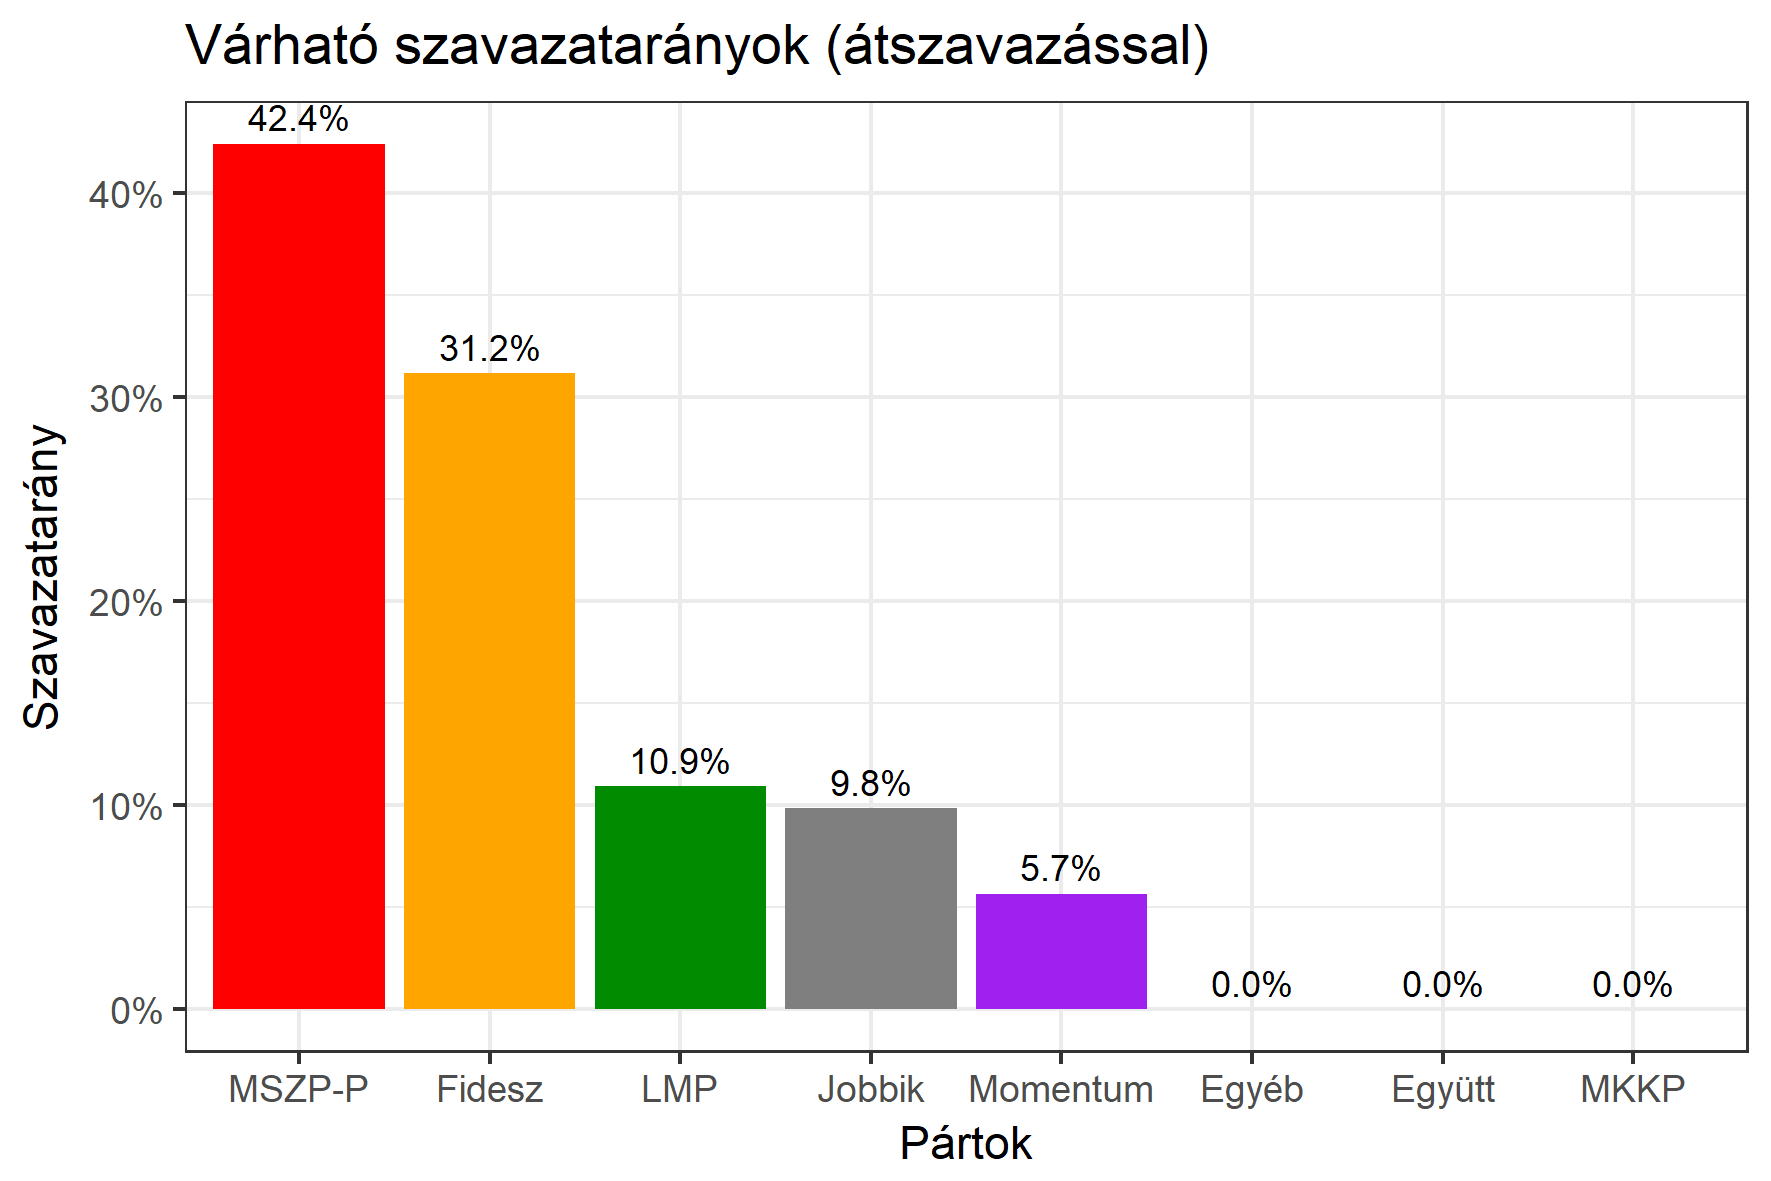
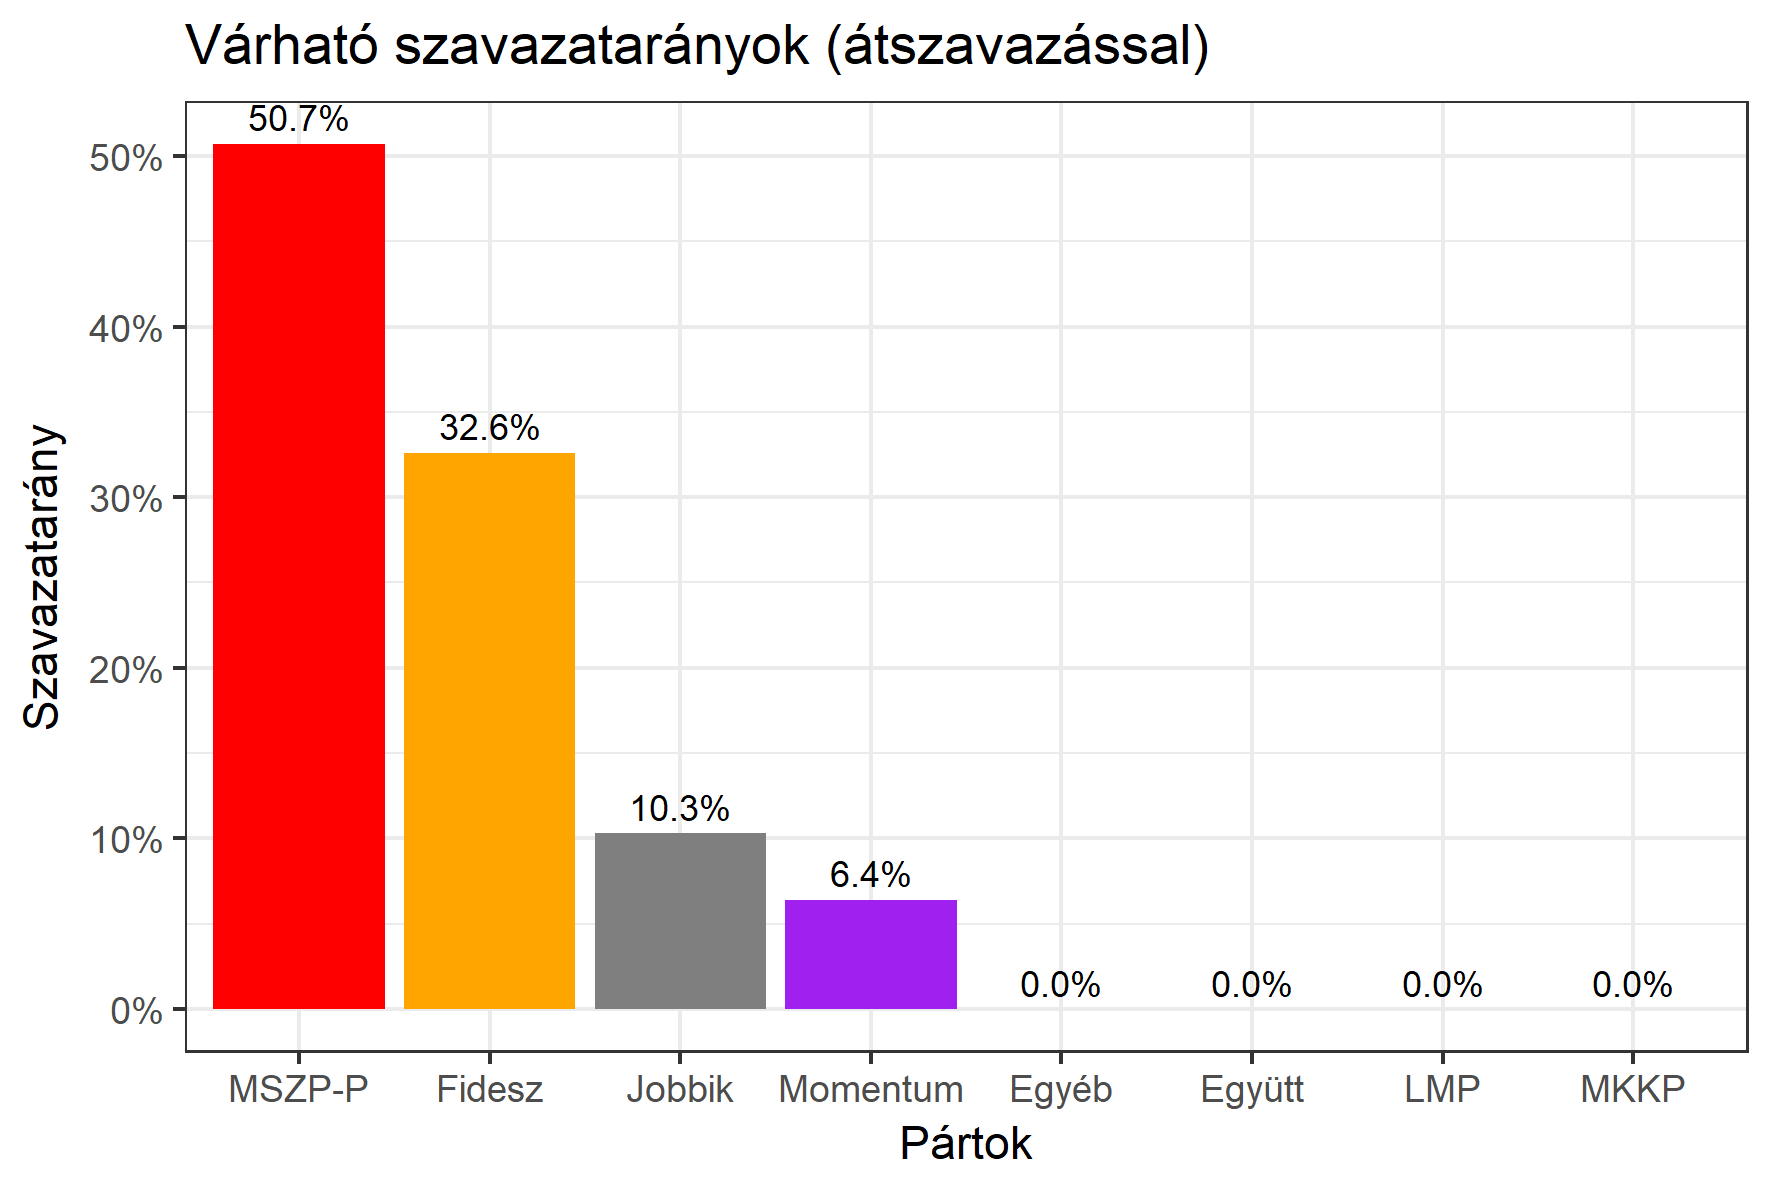
visszalepes UCCSO

diff --git a/baz2.md b/baz2.md
@@ -27,21 +27,15 @@ permalink: /baz2
               <tbody>
              <tr>
                   <td>Hubay György - Fidesz-KDNP <img src="images/fideszkdnp_logo.png" style="width:55px;height:30px;"></td>
-				   <td id="id_fidesz">33.2% &emsp; <span id="id_fidesz2">(34.4%)</span></td>
+				   <td id="id_fidesz">33.2% &emsp; <span id="id_fidesz2">(34.7%)</span></td>
 			</tr>
-			<tr><td>Pakusza Zoltán - Jobbik <img src="images/jobbik_logo.png" style="width:23px;height:30px;"></td> <td id="id_jobbik">27.7% &emsp; <span id="id_jobbik2">(28.1%)</span></td></tr>
+			<tr><td>Pakusza Zoltán - Jobbik <img src="images/jobbik_logo.png" style="width:23px;height:30px;"></td> <td id="id_jobbik">27.7% &emsp; <span id="id_jobbik2">(28.4%)</span></td></tr>
 <tr>
                   <td>dr. Varga László - MSZP-Párbeszéd <img src="images/mszpparbeszed_logo.png" style="width:60px;height:30px;"></td>
-				   <td id="id_baloldal">28.5% &emsp; <span id="id_baloldal2">(33.4%)</span></td>
-			</tr>
-			<tr>
-                  <td><strong>VISSZALÉPETT AZ MSZP-PÁRBESZÉD JAVÁRA</strong> - LMP <img src="images/lmp_logo.png" style="width:52px;height:30px;"></td>
-				   <td id="id_lmp">6.2% &emsp; <span id="id_lmp2">(4.2%)</span></td>
-			</tr>
-			
-                
+				   <td id="id_baloldal">28.5% &emsp; <span id="id_baloldal2">(36.9%)</span></td>
+			</tr>    
               </tbody>
-            </table><h5>Várható győztes: <span id="gyoztes">Fidesz</span><span id="esely"></span><span></span></h5>
+            </table><h5>Várható győztes: <span id="gyoztes">Varga László (MSZP-Párbeszéd)</span><span id="esely"></span><span></span></h5>
 			
 			
 <br/><p><strong>Fontos:</strong> A becslések csak az egyéni jelöltre adott szavazatok arányát mutatják, nem a listás szavazatokét. A becslés jelentős eltérést mutathat a kisebb pártok esetében és olyan kerületekben, ahol nincs egyértelmű esélyes jelölt.</p>

diff --git a/bp10.md b/bp10.md
@@ -27,20 +27,16 @@ permalink: /bp10
               <tbody>
              <tr>
                   <td>Menczer Erzsébet - Fidesz-KDNP <img src="images/fideszkdnp_logo.png" style="width:55px;height:30px;"></td>
-				   <td id="id_fidesz">30.1% &emsp; <span id="id_fidesz2">(31.2%)</span></td>
+				   <td id="id_fidesz">30.1% &emsp; <span id="id_fidesz2">(32.6%)</span></td>
 			</tr>
-			<tr><td>Zsiga-Kárpát Dániel - Jobbik <img src="images/jobbik_logo.png" style="width:23px;height:30px;"></td> <td id="id_jobbik">12.7% &emsp; <span id="id_jobbik2">(9.8%)</span></td></tr>
+			<tr><td>Zsiga-Kárpát Dániel - Jobbik <img src="images/jobbik_logo.png" style="width:23px;height:30px;"></td> <td id="id_jobbik">12.7% &emsp; <span id="id_jobbik2">(10.3%)</span></td></tr>
 <tr>
                   <td>Szabó Tímea - MSZP-Párbeszéd <img src="images/mszpparbeszed_logo.png" style="width:60px;height:30px;"></td>
-				   <td id="id_baloldal">27.9% &emsp; <span id="id_baloldal2">(42.4%)</span></td>
-			</tr>
-			<tr>
-                  <td><strong>VISSZALÉPETT AZ MSZP-PÁRBESZÉD JAVÁRA</strong> - LMP <img src="images/lmp_logo.png" style="width:52px;height:30px;"></td>
-				   <td id="id_lmp">16.4% &emsp; <span id="id_lmp2">(10.9%)</span></td>
+				   <td id="id_baloldal">27.9% &emsp; <span id="id_baloldal2">(50.7%)</span></td>
 			</tr>
 			<tr>
 				  <td>Donáth-Anna Júlia - Momentum <img src="images/momentum_logo.png" style="width:44px;height:30px;"></td>
-				   <td id="id_momentum">8.2% &emsp; <span id="id_momentum2">(5.7%)</span></td>
+				   <td id="id_momentum">8.2% &emsp; <span id="id_momentum2">(6.4%)</span></td>
 			</tr>
                
               </tbody>

diff --git a/to1.md b/to1.md
@@ -27,16 +27,12 @@ permalink: /to1
               <tbody>
              <tr>
                   <td>Horváth István - Fidesz-KDNP <img src="images/fideszkdnp_logo.png" style="width:55px;height:30px;"></td>
-				   <td id="id_fidesz">34.7% &emsp; <span id="id_fidesz2">(37.8%)</span></td>
+				   <td id="id_fidesz">34.7% &emsp; <span id="id_fidesz2">(39.6%)</span></td>
 			</tr>
-			<tr><td>Szabó Balázs György - Jobbik <img src="images/jobbik_logo.png" style="width:23px;height:30px;"></td> <td id="id_jobbik">18.6% &emsp; <span id="id_jobbik2">(19.7%)</span></td></tr>
-<tr>
-                  <td><strong>VISSZALÉPETT AZ LMP JAVÁRA</strong> - MSZP-Párbeszéd <img src="images/mszpparbeszed_logo.png" style="width:60px;height:30px;"></td>
-				   <td id="id_baloldal">16.1% &emsp; <span id="id_baloldal2">(11.0%)</span></td>
-			</tr>
+			<tr><td>Szabó Balázs György - Jobbik <img src="images/jobbik_logo.png" style="width:23px;height:30px;"></td> <td id="id_jobbik">18.6% &emsp; <span id="id_jobbik2">(20.6%)</span></td></tr>
 			<tr>
                   <td>dr. Hadházy Ákos - LMP <img src="images/lmp_logo.png" style="width:52px;height:30px;"></td>
-				   <td id="id_lmp">19.2% &emsp; <span id="id_lmp2">(29.8%)</span></td>
+				   <td id="id_lmp">19.2% &emsp; <span id="id_lmp2">(38.1%)</span></td>
 			</tr>
 <tr>
 <td>Pesti Vendel - MKKP <img src="images/mkkp_logo.png" style="width:49px;height:30px;"></td>
